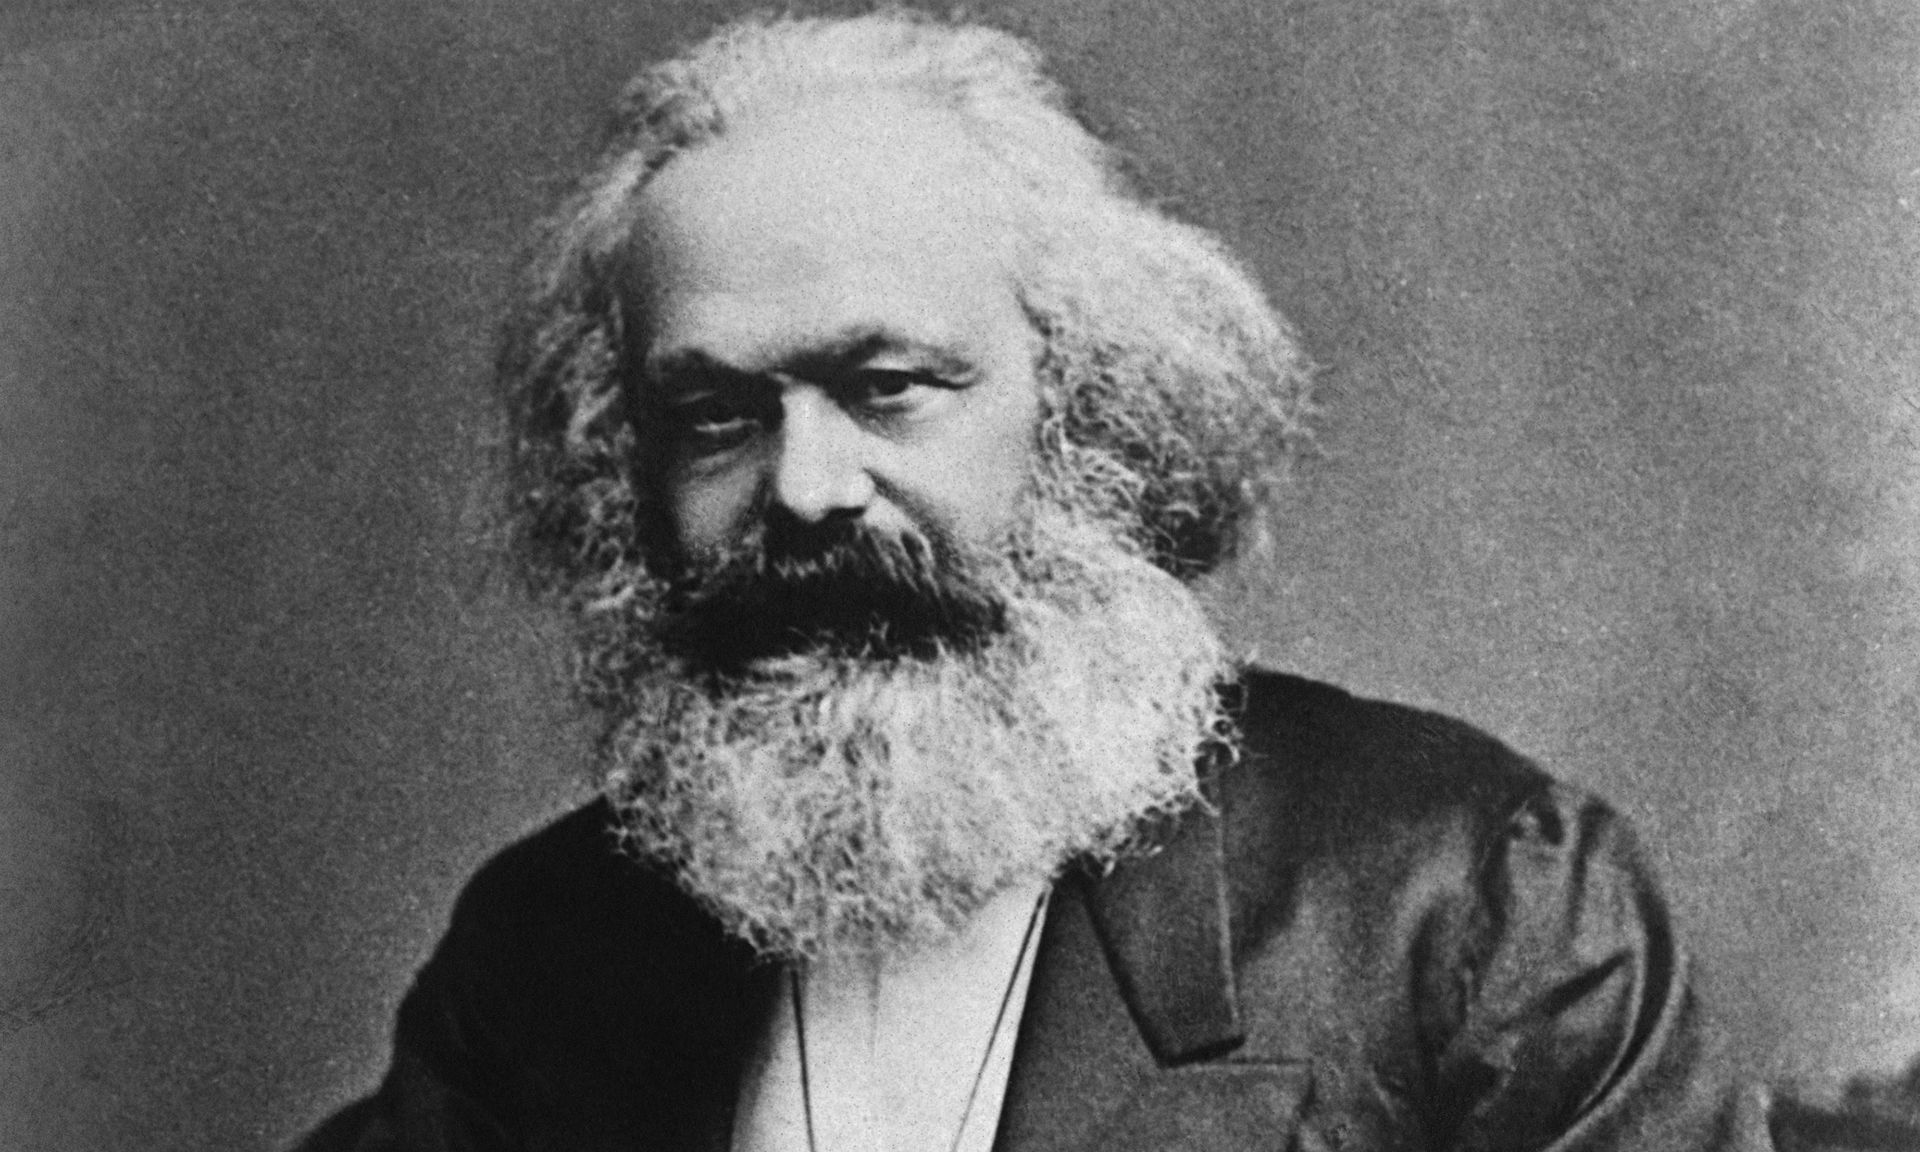
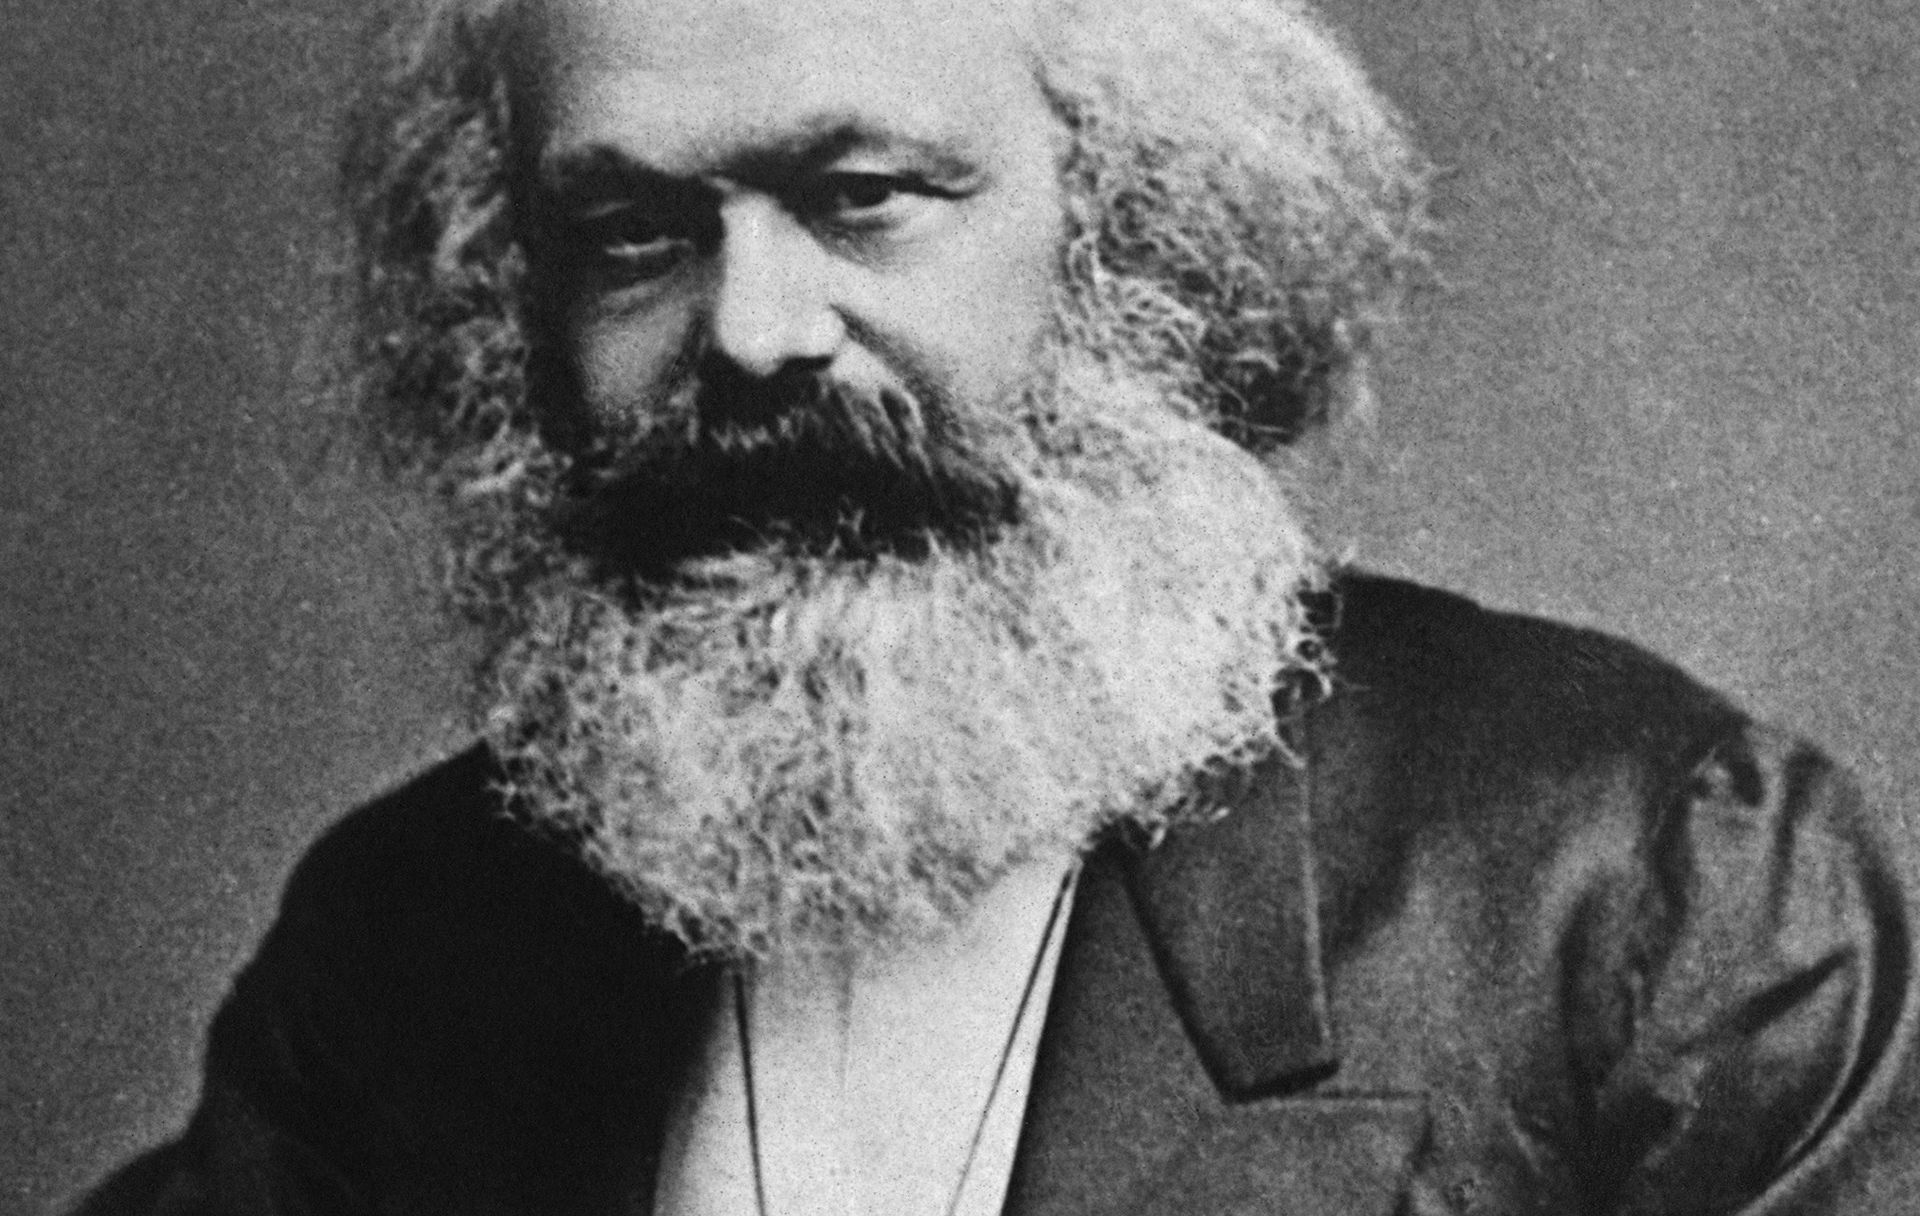
made karl marx bigger
made table th headers underline

diff --git a/public/css/login.css b/public/css/login.css
@@ -9,7 +9,8 @@ body {
 }
 
 .loginHeader {
-  height: 700px;
+  position: fixed;
+  top: 0; bottom: 0; left: 0; right: 0;
   display: none;
   background-image:url('../img/karl.jpg');
 }

diff --git a/public/css/style.css b/public/css/style.css
@@ -136,3 +136,7 @@ footer {
 .list-request, .list-return, .list-accept {
   text-align: center;
 }
+
+th {
+  text-decoration: underline;
+}
